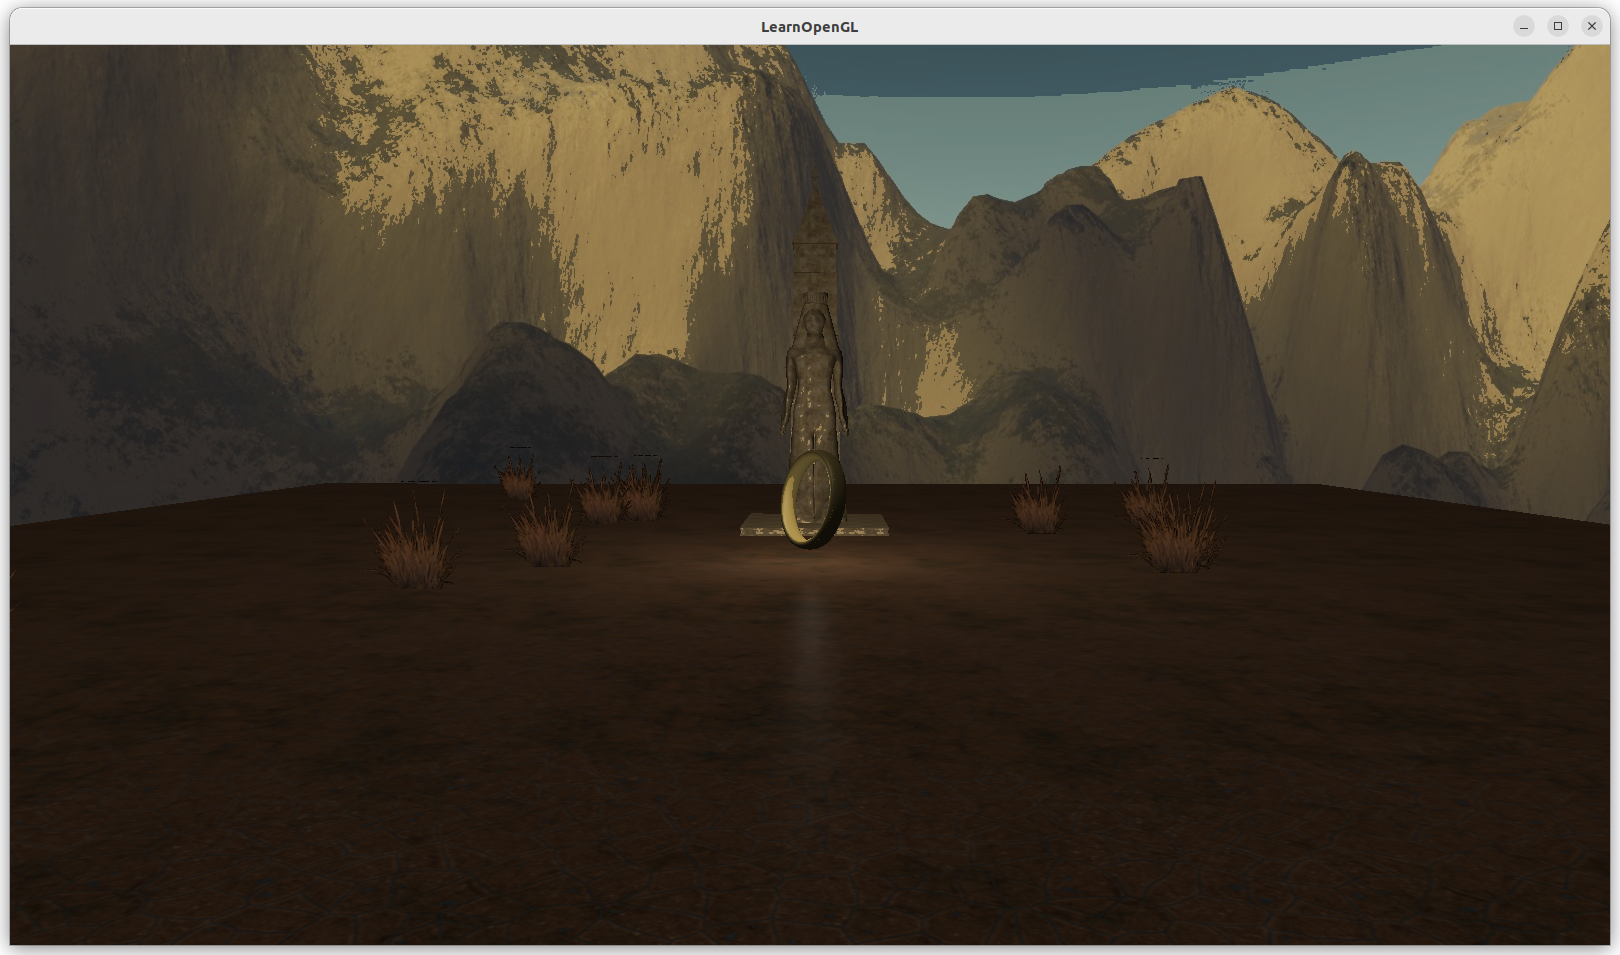
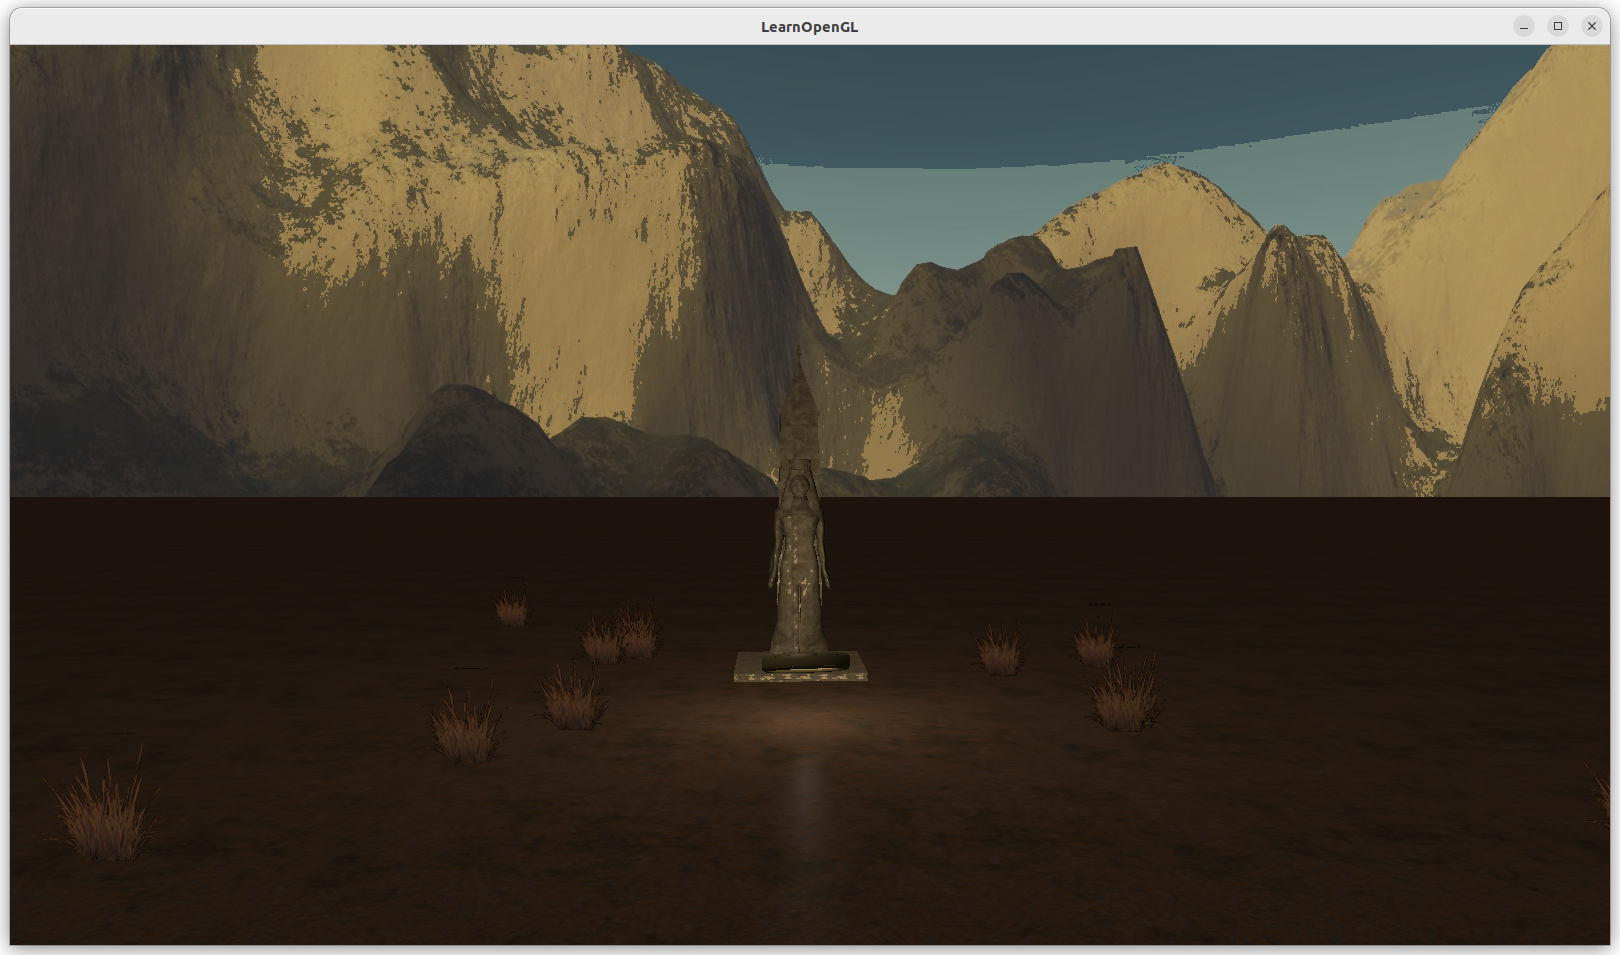
plane size

diff --git a/src/main.cpp b/src/main.cpp
@@ -183,13 +183,13 @@ int main() {
 
     float planeVertices[] = {
             // positions                     // normals                       // texcoords
-            1.0f, 0.0f,  1.0f,  0.0f, 1.0f, 0.0f,      7.0f,  0.0f,
+            1.0f, 0.0f,  1.0f,  0.0f, 1.0f, 0.0f,      1000.0f,  0.0f,
             -1.0f, 0.0f,  1.0f,  0.0f, 1.0f, 0.0f,   0.0f,  0.0f,
-            -1.0f, 0.0f, -1.0f,  0.0f, 1.0f, 0.0f,   0.0f, 7.0f,
+            -1.0f, 0.0f, -1.0f,  0.0f, 1.0f, 0.0f,   0.0f, 1000.0f,
 
-            1.0f, 0.0f,  1.0f,  0.0f, 1.0f, 0.0f,  7.0f,  0.0f,
-            -1.0f, 0.0f, -1.0f,  0.0f, 1.0f, 0.0f,   0.0f, 7.0f,
-            1.0f, 0.0f, -1.0f,  0.0f, 1.0f, 0.0f,  7.0f, 7.0f
+            1.0f, 0.0f,  1.0f,  0.0f, 1.0f, 0.0f,  1000.0f,  0.0f,
+            -1.0f, 0.0f, -1.0f,  0.0f, 1.0f, 0.0f,   0.0f, 1000.0f,
+            1.0f, 0.0f, -1.0f,  0.0f, 1.0f, 0.0f,  1000.0f, 1000.0f
     };
 
     float skyboxVertices[] = {
@@ -655,7 +655,7 @@ void drawPlane(Shader lightingShader, unsigned int planeVAO, unsigned int floorT
 
     model = glm::rotate(model, glm::radians(180.0f), glm::vec3(0.0f, 1.0f, 0.0f));
 
-    model = glm::scale(model, glm::vec3(7.0f));
+    model = glm::scale(model, glm::vec3(1000.0f));
     lightingShader.setMat4("model", model);
 
     glBindVertexArray(planeVAO);
